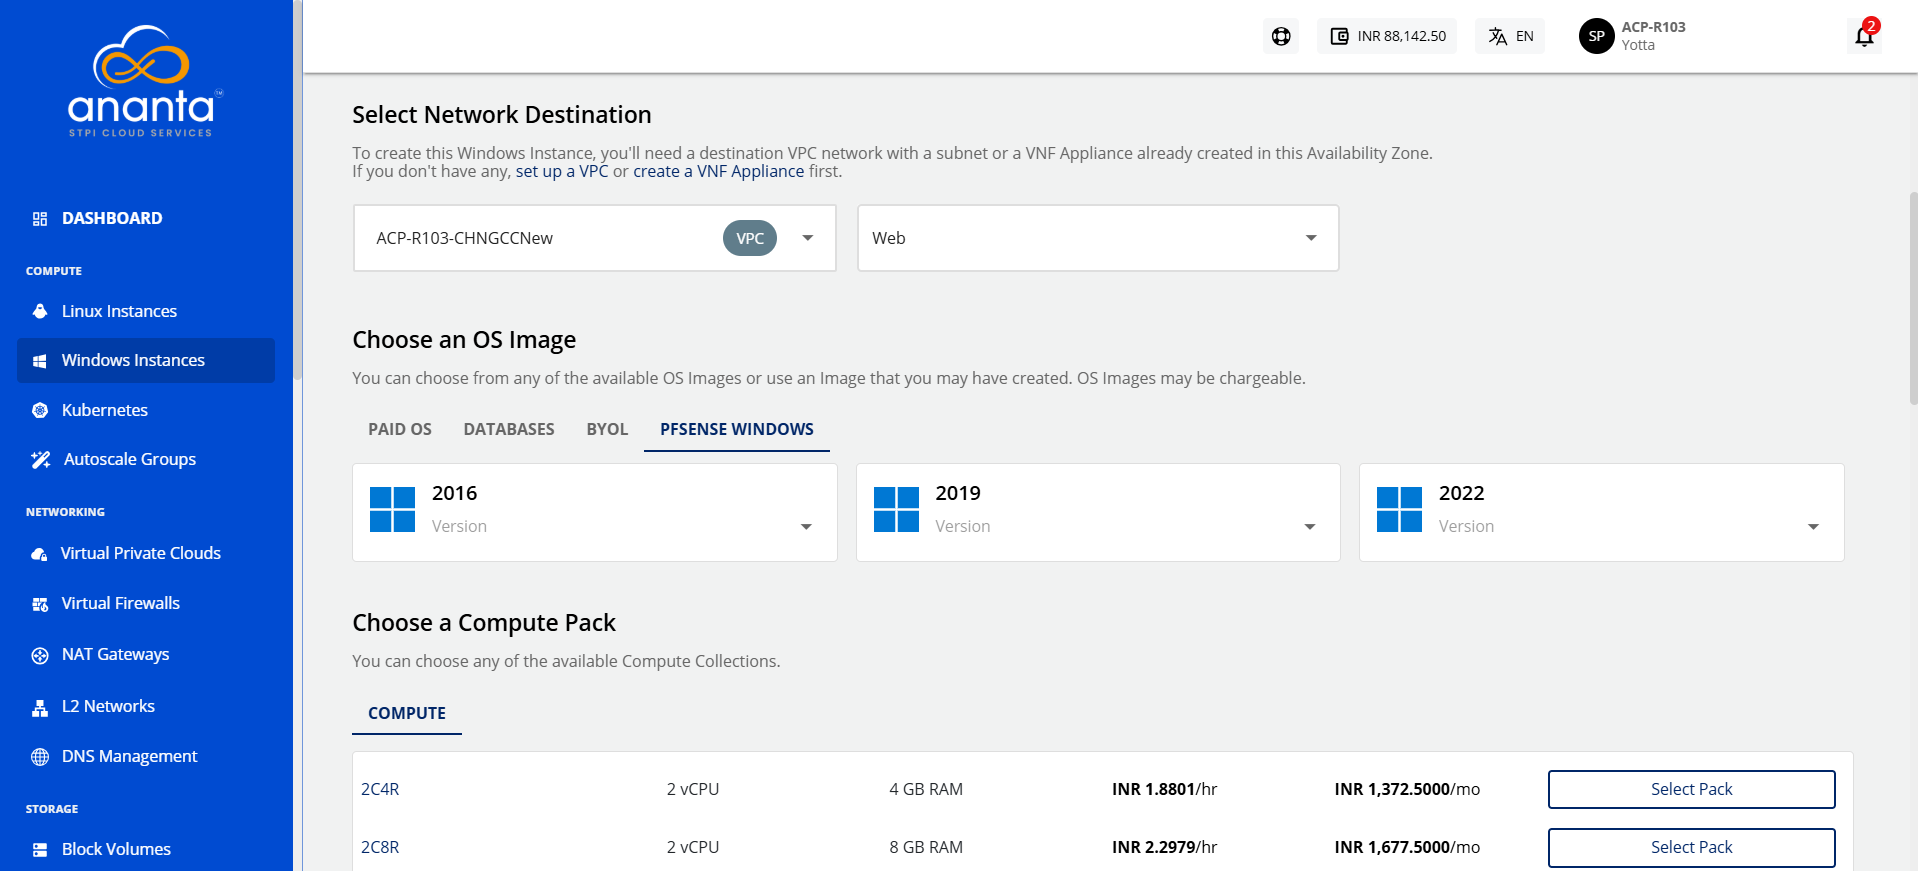
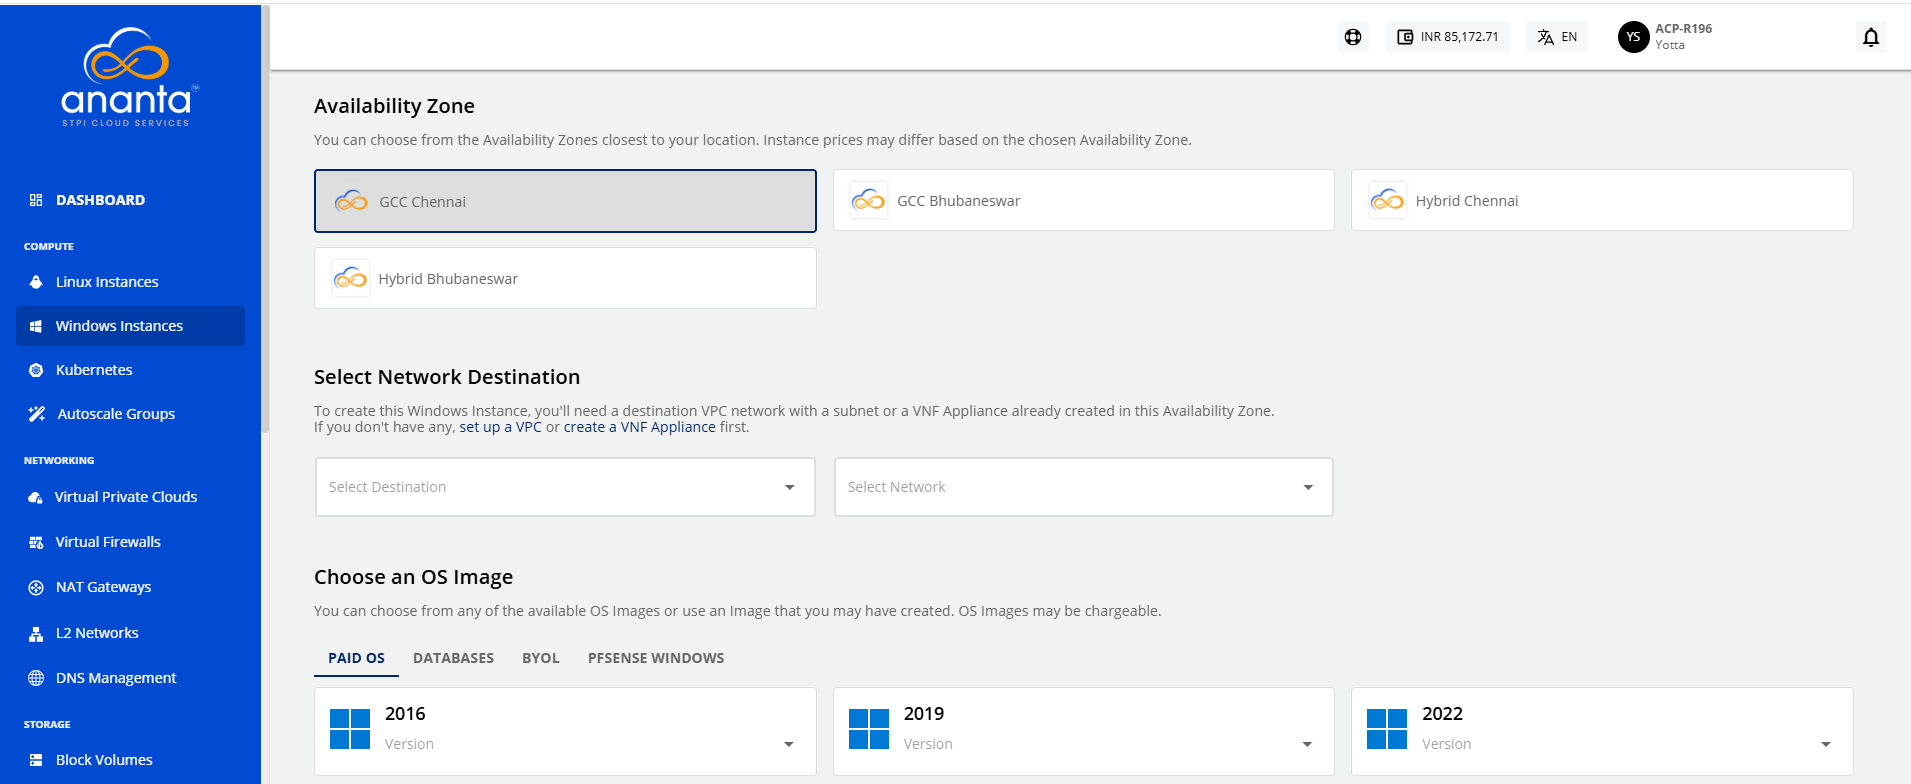
Updates

diff --git a/docs/Networking/FirewallandSecurity/AddingInstancetoaVFI-basedNetwork/AddingWindowsInstance.md b/docs/Networking/FirewallandSecurity/AddingInstancetoaVFI-basedNetwork/AddingWindowsInstance.md
@@ -2,33 +2,35 @@
 sidebar_position: 2
 ---
 # Adding Windows Instance
+
 To create a Windows instance, follow these steps:
 
 1. Navigate to **Compute > Windows** Instances.
-2. Click on the **+ NEW WINDOWS INSTANCE** from the top right.
+2. Click the **+ NEW WINDOWS INSTANCE** button.
 	![Windows Instance creation](img/WindowsInstance2.png)
-3. Enter the name for your Windows instance by following the naming convention mentioned below in the helper text.
-4.  Choose an Availability Zone, which is the geographical region where your Instance will be deployed. The chosen option should be the **advanced VPC** from all available AZs.
-5.  Select a VPC network from the **Select Network** Dropdown and select the appropriate tier listed in **Select a Network Tier**.
+3.  Choose an **Availability Zone**, which is the geographical region where your Instance will be deployed. The chosen option should be the **advanced VPC** from all available AZs.
+	![Windows Instance](img/WindowsInstance4.png)
+4.  Select a VPC network from the **Select Network** Dropdown and select the appropriate tier listed in **Select a Network Tier**.
 	:::note
 	To add a Windows Instance to a VPC, you need to have a VPC configured with at least one tier.
 	:::
-	![Windows Instance](img/WindowsInstance4.png)
-6. Choose an OS Image to run on your Instance. 
-7. Choose a compute pack from the available compute collections.
-8. Choose a Root disk from the available Disk packs, or you can use the free size option to specify the Root Disk.
-   ![Root Disk](img/WindowsRootDisk.png)
-9. Verify the Estimated Cost of your Windows Instance based on the specifications you have   chosen from the Summary and Estimated Costs Section (Here, both Hourly and Monthly Prices summary will be displayed)
-10. After reviewing the policies provided by your cloud service provider, click the checkbox.
+5. **Choose an OS Image** to run on your Instance. 
+6. **Choose a compute pack** from the available compute collections.
+7. **Choose a Root disk** from the available Disk packs, or you can use the free size option to specify the Root Disk.
+8.  In the **Name Your Windows Instance** field, enter the desired name for your Windows Instance. The Instance name must only contain alphanumeric characters, underscore, dots and hyphens. 
+	![Root Disk](img/WindowsRootDisk.png)
+9.  Under the **Summary and Estimated Costs** section, verify the estimated cost of your Windows Instance based on the chosen specifications.
+	![Summary and Estimated ](img/WindowsInstance5.png)
+10. After reviewing the policies mentioned by your cloud service provider, click **The above information is correct**. 
 11. To view the price summary and any discount codes in your account, click the **BUY HOURLY** or **BUY MONTHLY** button.
     - You can apply any of the discount codes listed by clicking on the **APPLY** button. 
     - You can also remove the applied discount code by clicking the **REMOVE** button. 
     - Clicking on the **CANCEL** button, this action will be canceled.
 12. Click the **CONFIRM**  button to create the Windows Instance.
-    ![Summary and Estimated ](img/WindowsInstance5.png)
+    
 
 :::note 
 This might take up to 5-8 minutes. You may use the Cloud Console during this time, but it is advised that you do not refresh the browser window.
 :::
 
-Once ready, you’ll be notified of this purchase on your email address on record. The newly created Windows Instances can be accessed from **Compute >** **Windows Instances** on the main navigation panel.
+Once ready, you receive a notification of this purchase at your email address. To access the newly created Windows instance, navigate to **Compute > Windows Instances** on the main navigation panel.

diff --git a/docs/Networking/FirewallandSecurity/AddingInstancetoaVFI-basedNetwork/AddingLinuxInstance.md b/docs/Networking/FirewallandSecurity/AddingInstancetoaVFI-basedNetwork/AddingLinuxInstance.md
@@ -4,16 +4,17 @@ sidebar_position: 1
 # Adding Linux Instance
 
 To create a Linux instance, follow these steps:
+
 1. Navigate to **Compute > Linux Instances**.
+2.  Click the **+ NEW LINUX INSTANCE** button.
     ![Create Linux Instance](img/CreatingLinuxInstances1.png)
-2. Click on **NEW LINUX INSTANCE**.
-3. Choose an **Availability Zone**, which is the geographical region where your Instance will be deployed. 
-4. Select the **Destination** (VPC/VNF) and then the **Network** from the respective drop-down lists.   ![Availability Zone](img/AvailablitiyZone.png)
+3. Choose an **Availability Zone**, which is the geographical region where your Instance will be deployed. ![Availability Zone](img/AvailablitiyZone.png)
+4. Select the **Destination** (VPC/VNF) and then the **Network** from the respective drop-down lists.   
 5. **Choose an OS Image** to run on your Instance.
 6. **Choose a Compute Pack** from the available compute collections.  
 	 ![Compute Pack](img/ComputePack.png)
 7. **Choose a Root Disk** from the available options.
-8. In **Choose Instant Apps**, select the available applications. To Verify/Login into your selected database, refer to App Overlays. 
+8. In **Choose Instant Apps**, select the available applications. To Verify/Login into your selected database, refer to [App Overlays](/docs/Compute/LinuxInstances/AppOverlays). 
     ![Root Disk](img/RootDisk.png)
 9. **Choose an Authentication Method**:
     - **Use SSH key pair**: Click on the Use SSH key pair option; all the SSH key pairs present in your account will be listed. If your account does not have any SSH key pair, then you can click the **Generate a new key pair** option or upload the key pair by clicking the **Upload a key pair** option. 
@@ -21,14 +22,16 @@ To create a Linux instance, follow these steps:
 10. In the **Name Your Linux Instance** field, enter the desired name for your Linux Instance. The Instance name must only contain alphanumeric characters, underscore, dots and hyphens. 
     ![Authentication Method](img/LinuxInstance.png)
 11. Under the **Summary and Estimated Costs** section, verify the estimated cost of your Linux Instance based on the chosen specifications.
-12. To confirm, click on the check box after reviewing the policies mentioned by your cloud service provider.
-13. Click on the **BUY HOURLY** or **BUY MONTHLY** button. The Confirm Instance Purchase window appears, and the price summary is displayed along with the discount codes if you have any in your account. 
+	![Cost](img/Cost.png)
+12.  After reviewing the policies mentioned by your cloud service provider, click **The above information is correct**. 
+13. To view the price summary and any discount codes in your account, click the **BUY HOURLY** or **BUY MONTHLY** button.
     - You can apply any of the discount codes listed by clicking on the **APPLY** button. 
     - You can also remove the applied discount code by clicking the **REMOVE** button. 
-    - You can cancel your action by clicking the **CANCEL** button.
-14. To create the Linux Instance, click on the **CONFIRM** button.
-    ![Cost](img/Cost.png)
+    - Clicking on the **CANCEL** button, this action will be canceled.
+14. Click the **CONFIRM**  button to create the Linux Instance.
 
 :::note
 It might take up to 5-8 minutes for the Linux instance to get created. You may use the Cloud Console during this time, but it is advised that you do not refresh the browser window.
 :::
+
+Once ready, you receive a notification of this purchase at your email address. To access the newly created Linux instance, navigate to **Compute > Linux Instances** on the main navigation panel.
